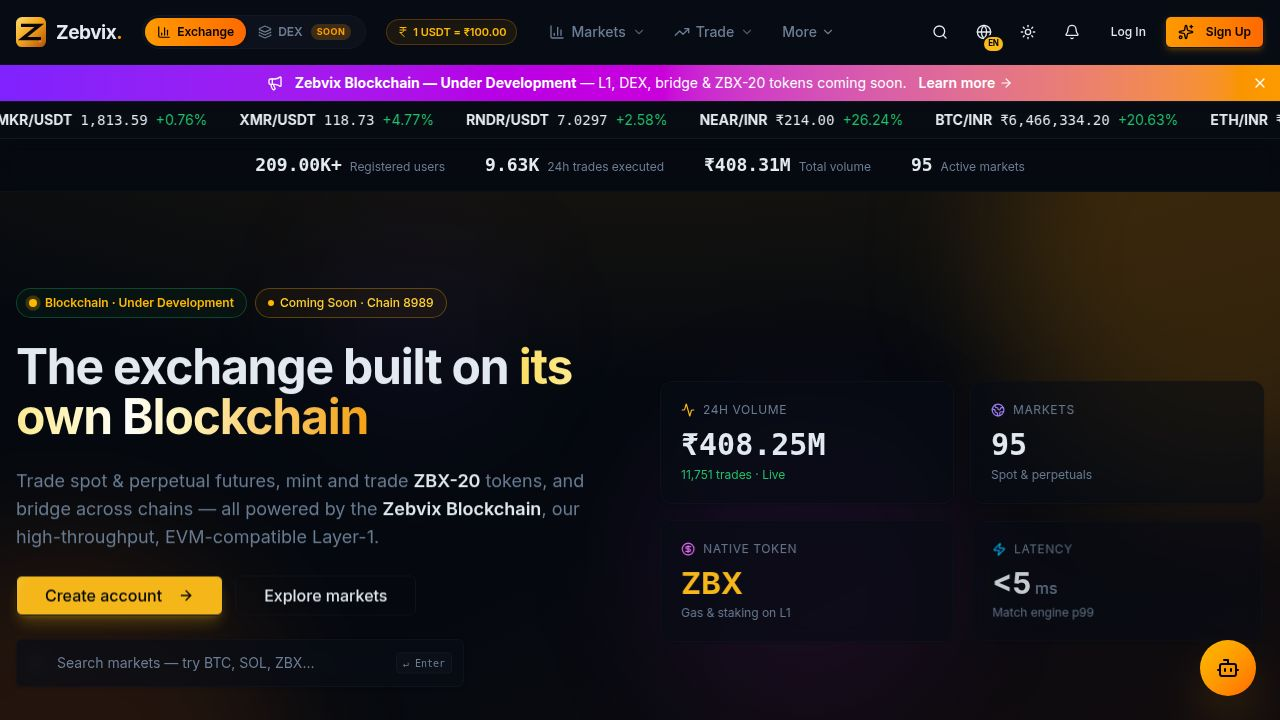
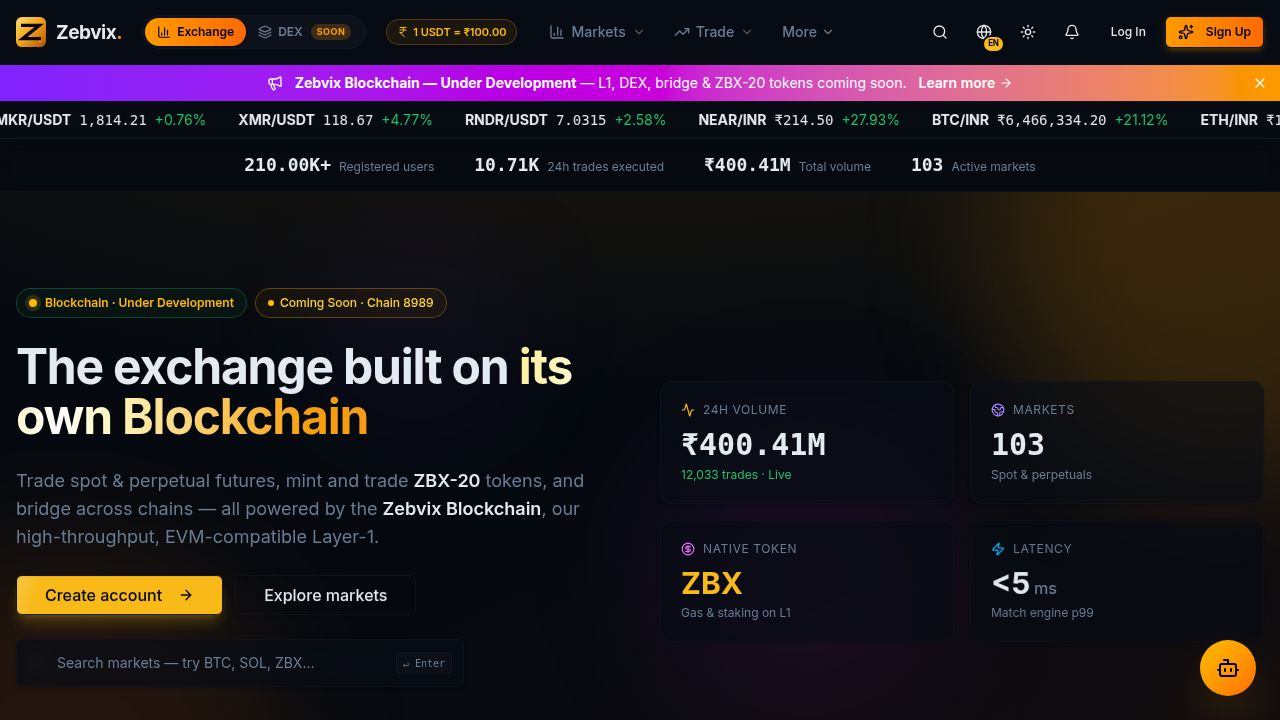
Prevent sell ads from being created without payment methods
Add validation to prevent sell ads from being created if the user has no payment methods configured. If no methods are available, a warning banner is displayed, and the create ad button is disabled. Payment method checkboxes are now dynamically enabled or disabled based on the user's saved accounts.

Replit-Commit-Author: Agent
Replit-Commit-Session-Id: cbc39002-cd99-450e-a1d9-85cc0e3cfcaf
Replit-Commit-Checkpoint-Type: full_checkpoint
Replit-Commit-Event-Id: 7b359f8f-acdc-407e-9fa5-633f55bfce7d
Replit-Commit-Screenshot-Url: https://storage.googleapis.com/screenshot-production-us-central1/4c58e926-79d0-4f1e-a563-accf7990887f/cbc39002-cd99-450e-a1d9-85cc0e3cfcaf/slvVHYS
Replit-Helium-Checkpoint-Created: true

diff --git a/artifacts/user-portal/src/pages/P2P.tsx b/artifacts/user-portal/src/pages/P2P.tsx
@@ -2,7 +2,7 @@ import { useState, useEffect, useRef } from "react";
 import { useQuery, useQueryClient } from "@tanstack/react-query";
 import {
   Users, Plus, ShoppingCart, Tag, MessageSquare, Trash2, Power, ShieldCheck,
-  AlertTriangle, Loader2, Send, ArrowDown, ArrowUp, Wallet, RefreshCw,
+  AlertTriangle, AlertCircle, Loader2, Send, ArrowDown, ArrowUp, Wallet, RefreshCw,
   Check, X, Hourglass, CircleDot, IndianRupee, Building, Smartphone,
   Star, Edit2, CheckCircle2, Clock, Trophy, ExternalLink,
 } from "lucide-react";
@@ -717,6 +717,36 @@ function CreateAdDialog({ onClose }: { onClose: () => void }) {
     if (!termsEdited) setTerms(defaultAdTerms(side, payWindowMins));
   }, [side, payWindowMins, termsEdited]);
 
+  // Seller's saved payment methods — needed for sell ad validation
+  const myMethodsQ = useListP2pPaymentMethods({
+    request: COOKIE_REQ,
+    query: { queryKey: ["/p2p/payment-methods"] },
+  });
+  const savedMethods: PaymentMethod[] = (myMethodsQ.data ?? []) as PaymentMethod[];
+
+  // Count how many saved accounts exist per method type
+  const savedCountByType = PAYMENT_METHODS.reduce<Record<string, number>>((acc, m) => {
+    acc[m.value] = savedMethods.filter(sm => sm.method === m.value && sm.active).length;
+    return acc;
+  }, {});
+  const hasSavedMethods = savedMethods.filter(sm => sm.active).length > 0;
+
+  // For sell ads: auto-deselect method types that have no saved accounts
+  useEffect(() => {
+    if (side === "sell" && savedMethods.length > 0) {
+      setMethods(prev => {
+        const valid = prev.filter(m => (savedCountByType[m] ?? 0) > 0);
+        // If nothing valid left, pick first available type
+        if (valid.length === 0) {
+          const first = PAYMENT_METHODS.find(m => (savedCountByType[m.value] ?? 0) > 0);
+          return first ? [first.value] : [];
+        }
+        return valid;
+      });
+    }
+  // eslint-disable-next-line react-hooks/exhaustive-deps
+  }, [side, savedMethods.length]);
+
   const coinsQ = useQuery<Coin[]>({
     queryKey: ["/coins"],
     queryFn: () => get<Coin[]>("/coins"),
@@ -770,7 +800,8 @@ function CreateAdDialog({ onClose }: { onClose: () => void }) {
   });
 
   const valid = !!coinSymbol && Number(price) > 0 && Number(totalQty) > 0
-    && Number(minFiat) > 0 && Number(maxFiat) >= Number(minFiat) && methods.length > 0;
+    && Number(minFiat) > 0 && Number(maxFiat) >= Number(minFiat) && methods.length > 0
+    && (side !== "sell" || hasSavedMethods);
 
   return (<>
     <Dialog open onOpenChange={adSuccess ? undefined : onClose}>
@@ -934,35 +965,69 @@ function CreateAdDialog({ onClose }: { onClose: () => void }) {
 
           {/* Payment methods */}
           <div className="space-y-1.5">
-            <Label className="text-xs font-medium text-muted-foreground uppercase tracking-wider">
-              Accepted payment methods <span className="normal-case font-normal">(select at least one)</span>
-            </Label>
+            <div className="flex items-center justify-between">
+              <Label className="text-xs font-medium text-muted-foreground uppercase tracking-wider">
+                Accepted payment methods <span className="normal-case font-normal">(select at least one)</span>
+              </Label>
+            </div>
+
+            {/* Sell ad + no saved methods → hard block */}
+            {side === "sell" && !myMethodsQ.isLoading && !hasSavedMethods && (
+              <div className="rounded-lg border border-rose-500/30 bg-rose-500/10 p-3 flex items-start gap-2.5">
+                <AlertCircle className="h-4 w-4 text-rose-400 shrink-0 mt-0.5" />
+                <div className="flex-1 min-w-0">
+                  <p className="text-xs font-semibold text-rose-300">No payment methods added</p>
+                  <p className="text-[11px] text-rose-400/80 mt-0.5">
+                    You need at least one saved UPI/bank account before posting a sell ad. Buyers will pay to your saved account.
+                  </p>
+                  <button
+                    type="button"
+                    onClick={onClose}
+                    className="mt-1.5 text-[11px] text-rose-300 underline underline-offset-2 hover:text-rose-200"
+                  >
+                    Go to Payment Methods tab →
+                  </button>
+                </div>
+              </div>
+            )}
+
             <div className="grid grid-cols-2 sm:grid-cols-3 gap-2">
               {PAYMENT_METHODS.map(m => {
                 const Icon = m.icon;
                 const checked = methods.includes(m.value);
+                const count = savedCountByType[m.value] ?? 0;
+                // For sell ads: disable types with no saved accounts
+                const disabled = side === "sell" && count === 0;
                 return (
                   <label
                     key={m.value}
-                    className={`flex items-center gap-2 rounded-lg border px-3 py-2 cursor-pointer transition-colors ${
-                      checked
-                        ? "border-violet-500/50 bg-violet-500/10 text-violet-300"
-                        : "border-border/60 hover:bg-muted/40 text-muted-foreground hover:text-foreground"
+                    className={`flex items-center gap-2 rounded-lg border px-3 py-2 transition-colors ${
+                      disabled
+                        ? "border-border/30 bg-muted/20 text-muted-foreground/40 cursor-not-allowed opacity-50"
+                        : checked
+                          ? "border-violet-500/50 bg-violet-500/10 text-violet-300 cursor-pointer"
+                          : "border-border/60 hover:bg-muted/40 text-muted-foreground hover:text-foreground cursor-pointer"
                     }`}
                   >
                     <Checkbox
                       checked={checked}
-                      onCheckedChange={(c) => setMethods(c ? [...methods, m.value] : methods.filter(x => x !== m.value))}
+                      disabled={disabled}
+                      onCheckedChange={(c) => !disabled && setMethods(c ? [...methods, m.value] : methods.filter(x => x !== m.value))}
                       className="shrink-0"
                       data-testid={`p2p-ad-method-${m.value}`}
                     />
                     <Icon className="h-3.5 w-3.5 shrink-0" />
-                    <span className="text-xs font-medium truncate">{m.label}</span>
+                    <span className="text-xs font-medium truncate">
+                      {m.label}
+                      {side === "sell" && count > 0 && (
+                        <span className="ml-1 text-[10px] text-muted-foreground">({count})</span>
+                      )}
+                    </span>
                   </label>
                 );
               })}
             </div>
-            {methods.length === 0 && (
+            {methods.length === 0 && hasSavedMethods && (
               <div className="text-[11px] text-rose-400">Select at least one payment method</div>
             )}
           </div>